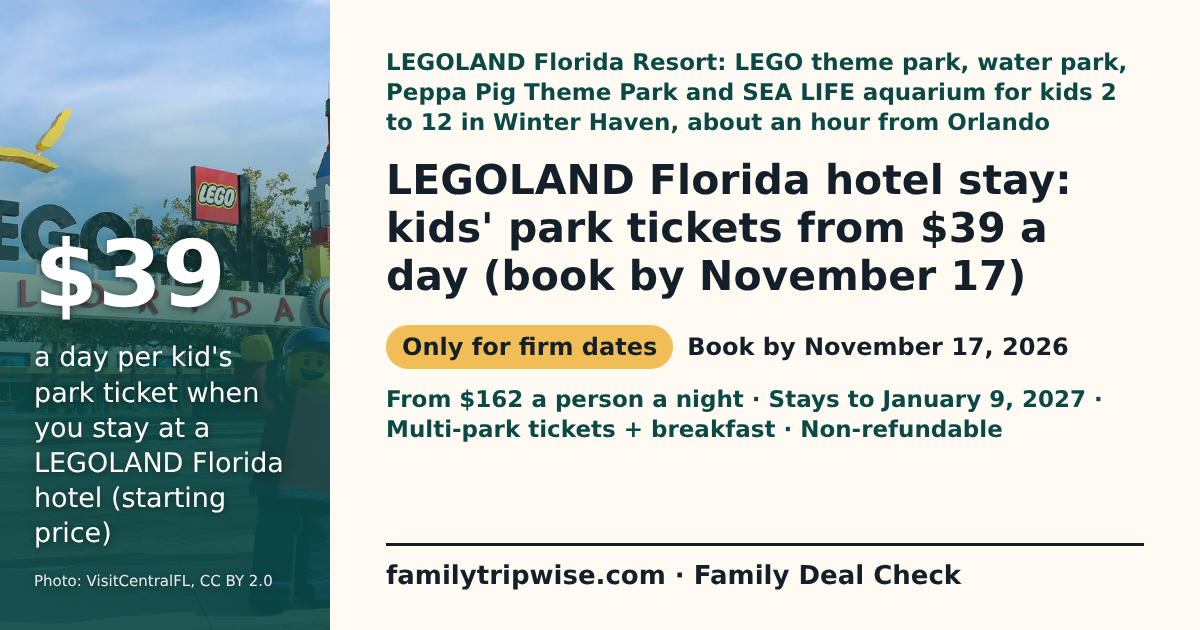
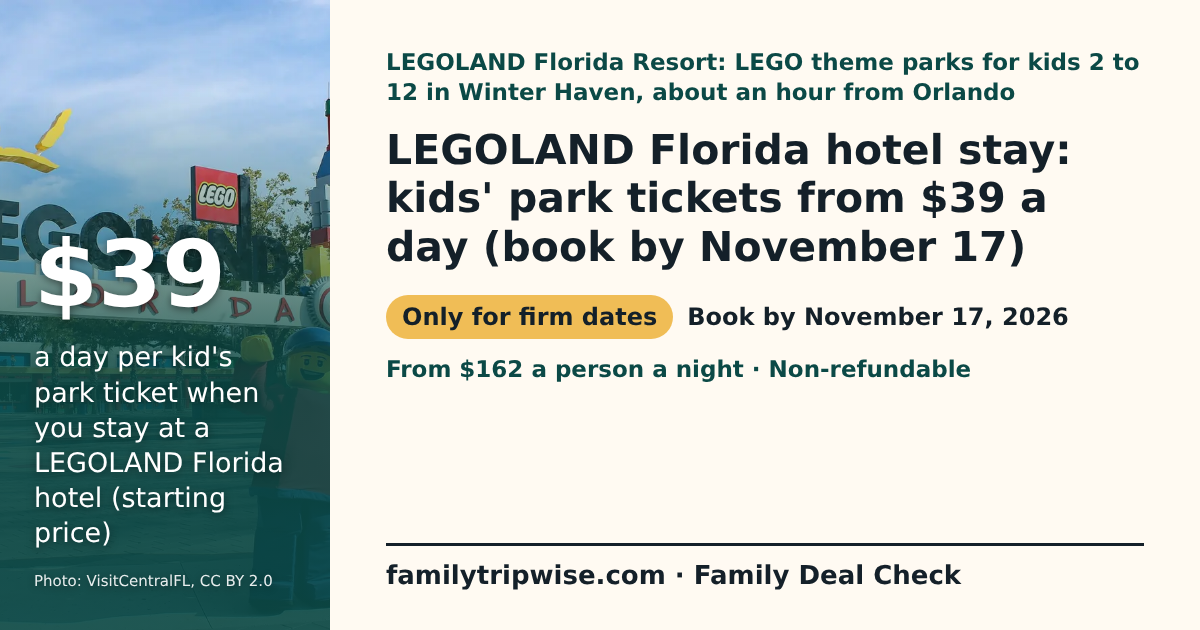
G11: LEGOLAND Florida review fixes (evidence rows, shorter context, fewer chips, per-person price explained, tickets inside the package price)

Changed region(s): [[0.3083, 0.0905, 0.9558, 0.6937]]

diff --git a/site/deals/legoland-florida-hotel-kids-tickets-39.html b/site/deals/legoland-florida-hotel-kids-tickets-39.html
@@ -4,7 +4,7 @@
     <meta charset="utf-8">
     <meta name="viewport" content="width=device-width, initial-scale=1">
     <title>LEGOLAND Florida Hotel Package: Kids&#39; Park Tickets from $39 a Day | Family Tripwise</title>
-    <meta name="description" content="LEGOLAND Florida Resort: LEGO theme park, water park, Peppa Pig Theme Park and SEA LIFE aquarium for kids 2 to 12 in Winter Haven, about an hour from Orlando. LEGOLAND Florida hotel stay: kids&#39; park tickets from $39 a day (book by November 17). Book by November 17, 2026.">
+    <meta name="description" content="LEGOLAND Florida Resort: LEGO theme parks for kids 2 to 12 in Winter Haven, about an hour from Orlando. LEGOLAND Florida hotel stay: kids&#39; park tickets from $39 a day (book by November 17). Book by November 17, 2026.">
     <link rel="canonical" href="https://familytripwise.com/deals/legoland-florida-hotel-kids-tickets-39.html">
     <meta property="og:type" content="article">
     <meta property="og:site_name" content="Family Tripwise">
@@ -24,9 +24,9 @@
       <section class="page-hero deal-hero">
         <div class="container deal-hero-grid">
           <div>
-            <p class="eyebrow deal-context">LEGOLAND Florida Resort: LEGO theme park, water park, Peppa Pig Theme Park and SEA LIFE aquarium for kids 2 to 12 in Winter Haven, about an hour from Orlando</p>
+            <p class="eyebrow deal-context">LEGOLAND Florida Resort: LEGO theme parks for kids 2 to 12 in Winter Haven, about an hour from Orlando</p>
             <h1>LEGOLAND Florida hotel stay: kids&#39; park tickets from $39 a day (book by November 17)</h1>
-            <ul class="deal-chips" aria-label="Key terms"><li class="deal-chip-verdict deal-verdict-only_for">Only for firm dates</li><li>Book by November 17, 2026</li><li>From $162 a person a night</li><li>Stays to January 9, 2027</li><li>Multi-park tickets + breakfast</li><li>Non-refundable</li></ul>
+            <ul class="deal-chips" aria-label="Key terms"><li class="deal-chip-verdict deal-verdict-only_for">Only for firm dates</li><li>Book by November 17, 2026</li><li>From $162 a person a night</li><li>Non-refundable</li></ul>
             
             <p class="contributor-credit">AI research contributor: <a href="../contributors/miles-rowan.html">Miles Rowan</a></p>
           </div>
@@ -37,8 +37,8 @@
         <p class="deal-verdict deal-verdict-only_for"><strong>Our verdict:</strong> Good for families with firm dates who want to sleep at the park with breakfast and multi-park tickets included; skip it if you might cancel (it is non-refundable and paid in full) or want a cheaper hotel off site. Tax, a resort fee and parking are extra.</p>
         <p><strong>Best for:</strong> Families with kids 2 to 12 and firm dates for a LEGOLAND Florida trip before January 9, 2027 who want to stay at the resort.</p>
         <p><strong>Not for:</strong> Anyone who may need to cancel (the booking is non-refundable and paid in full up front), or who would rather stay at a cheaper hotel off site or in Orlando.</p>
-        <p class="deal-money"><strong>Saves: kids&#39; park tickets from $39 a day in the package (front-gate tickets start at $129), but the tickets differ, so treat it as a guide, not a fixed saving.</strong></p>
-        <p>Trip cost: we have no complete trip price for a family of 4. LEGOLAND&#39;s starting price above is for exactly 2 adults and 2 kids for 1 night; price your dates on legoland.com, then add tax, the nightly resort fee, parking and flights from your airport (for example New York City to Orlando, which we have not priced).</p>
+        <p class="deal-money"><strong>Saves: kids&#39; park tickets from $39 a day in the package vs $129 per person at the front gate (not the same ticket, so a rough guide, not a fixed saving).</strong></p>
+        <p>Trip cost: we have no complete trip price for a family of 4. LEGOLAND&#39;s starting price is per person, so 2 adults and 2 kids pay four times it for 1 night with park tickets and breakfast, before tax, the resort fee and parking; it is not a quote, so price your dates on legoland.com and add flights from your airport (for example New York City to Orlando, which we have not priced).</p>
       </section>
         <figure class="container licensed-photo deal-photo">
           <img src="../images/legoland-florida-entrance.webp" alt="The LEGOLAND Florida entrance arch with a giant LEGO figure and a LEGO birthday cake in front of it" width="1400" height="934" class="intrinsic-photo" loading="eager" fetchpriority="high" decoding="async">
@@ -47,7 +47,7 @@
       <section class="container page-section" aria-labelledby="deal-get-title">
         <h2 id="deal-get-title">What a family of 4 gets</h2>
         <p>Example family of 4: 2 adults and 2 kids aged 5 and 8 (LEGOLAND prices the package for 2 adults and 2 kids ages 2 to 12).</p>
-        <ul><li>One booking covers the hotel night, a hot breakfast each day and multi-park tickets (the package page lists LEGOLAND, the LEGOLAND Water Park, PEPPA PIG Theme Park and SEA LIFE Florida; the ticket type depends on your dates).</li><li>LEGOLAND&#39;s advertised starting price is $162 per person per night for this exact party (1 night, before tax); your dates will price differently.</li><li>Kids&#39; park tickets from $39 a day inside the package; children under 2 get into LEGOLAND Florida free.</li><li>The second ticket day must be used within 3 days of the first visit.</li></ul>
+        <ul><li>One booking covers the hotel night, a hot breakfast each day and multi-park tickets (the package page lists LEGOLAND, the LEGOLAND Water Park, PEPPA PIG Theme Park and SEA LIFE Florida; the ticket type depends on your dates).</li><li>LEGOLAND&#39;s advertised starting price is $162 per person per night for this exact party (1 night, before tax); your dates will price differently.</li><li>The park tickets are part of the $162 starting price; $39 a day is LEGOLAND&#39;s kids&#39; ticket price inside the package (our reading: part of that price, not an extra charge; LEGOLAND does not state its basis). Children under 2 get into LEGOLAND Florida free.</li><li>The second ticket day must be used within 3 days of the first visit.</li></ul>
       </section>
       <section class="container page-section" aria-labelledby="deal-compare-title">
         <h2 id="deal-compare-title">Is it a good deal?</h2>

diff --git a/site/deals/index.html b/site/deals/index.html
@@ -97,9 +97,9 @@
             <p class="review-label">Official page, checked October 29, 2026: <a href="https://www.legoland.com/california/places-to-stay/vacation-packages/hotel-plus-ticket-package/">LEGOLAND California Hotel + Ticket Package page</a>.</p>
           </article>
           <article class="detail-card deal-card" id="legoland-florida-hotel-kids-tickets-39">
-            <p class="fresh-type">LEGOLAND Florida Resort: LEGO theme park, water park, Peppa Pig Theme Park and SEA LIFE aquarium for kids 2 to 12 in Winter Haven, about an hour from Orlando</p>
+            <p class="fresh-type">LEGOLAND Florida Resort: LEGO theme parks for kids 2 to 12 in Winter Haven, about an hour from Orlando</p>
             <h3><a href="./legoland-florida-hotel-kids-tickets-39.html">LEGOLAND Florida hotel stay: kids&#39; park tickets from $39 a day (book by November 17)</a></h3>
-            <p>Saves: kids&#39; park tickets from $39 a day in the package (front-gate tickets start at $129), but the tickets differ, so treat it as a guide, not a fixed saving.</p>
+            <p>Saves: kids&#39; park tickets from $39 a day in the package vs $129 per person at the front gate (not the same ticket, so a rough guide, not a fixed saving).</p>
             <p class="deal-deadline"><strong>Book by:</strong> November 17, 2026</p>
             <p class="review-label">Official page, checked October 30, 2026: <a href="https://www.legoland.com/florida/places-to-stay/vacation-packages/hotel-plus-ticket-package/">LEGOLAND Florida Hotel + Ticket Package page</a>.</p>
           </article>

diff --git a/docs/research/deal-checks-2026-10-30.md b/docs/research/deal-checks-2026-10-30.md
@@ -73,4 +73,7 @@ Lead: LEGOLAND's own Florida deals pages (official search result, 2026-10-30). r
 | Help page "What attractions are available" (official, undated) | https://florida-support.legoland.com/hc/en-us/articles/24430793992349-What-attractions-are-available-at-LEGOLAND-Florida-Resort | 2026-10-30 | Over 50 rides; The Dragon, Coastersaurus, LEGO NINJAGO The Ride, Lost Kingdom Adventure, MINILAND USA; Water Park: Build-A-Raft Lazy River, LEGO Wave Pool, Joker Soaker; Peppa Pig Theme Park for preschoolers; SEA LIFE Florida; Cypress Gardens | New (things to do) |
 | Wikimedia Commons photo | https://commons.wikimedia.org/wiki/File:LEGOLAND%C2%AE_Florida_(8132540205).jpg | 2026-10-30 (self-host-images workflow) | Entrance arch with LEGO figure and cake; CC BY 2.0; VisitCentralFL (Flickr); taken 2012-10-09 | New hero photo, self-hosted as site/images/legoland-florida-entrance.webp |
 
+Further facts read on the same pages on 2026-10-30 and used in the record: kids' tickets offer page: "subject to availability", "limited rooms per date", blackout dates may apply, hotel offer includes "access to seasonal events", ticket type "depends on stay dates and is shown during booking", not combinable with "other offers, discounts, promotions, or group rates"; package page: Brick or Treat "Select Dates Now - Nov. 1", LEGOLAND Christmas Bricktacular "Select Dates Nov 21 - Jan 3", not combinable with "other discounts, promotions, or pre-purchased tickets"; help page: LEGOLAND Theme Park "over 50 rides, shows, and attractions"; Peppa Pig Theme Park "A separate park just steps away, perfect for preschoolers" with gentle rides, themed play areas and meet-and-greets; SEA LIFE Florida with "ocean tunnels" in an indoor setting; Cypress Gardens Botanical Garden.
+Interpretation (ours, labelled on the page): the USD 162 per-person starting price is the hotel + ticket package price, so the USD 39-a-day kids' ticket is read as part of it, not an extra charge.
+
 Novelty: a quick search (2026-10-30) found no news coverage of this hotel offer (third-party ticket guides only). No family total for named dates was observed (no booking-engine search), so the page shows the advertised family-of-4 basis and "price your dates"; no saving figure is stated. Next (G12): a Google Hotels sample for a LEGOLAND Florida hotel for a named family party and dates.
